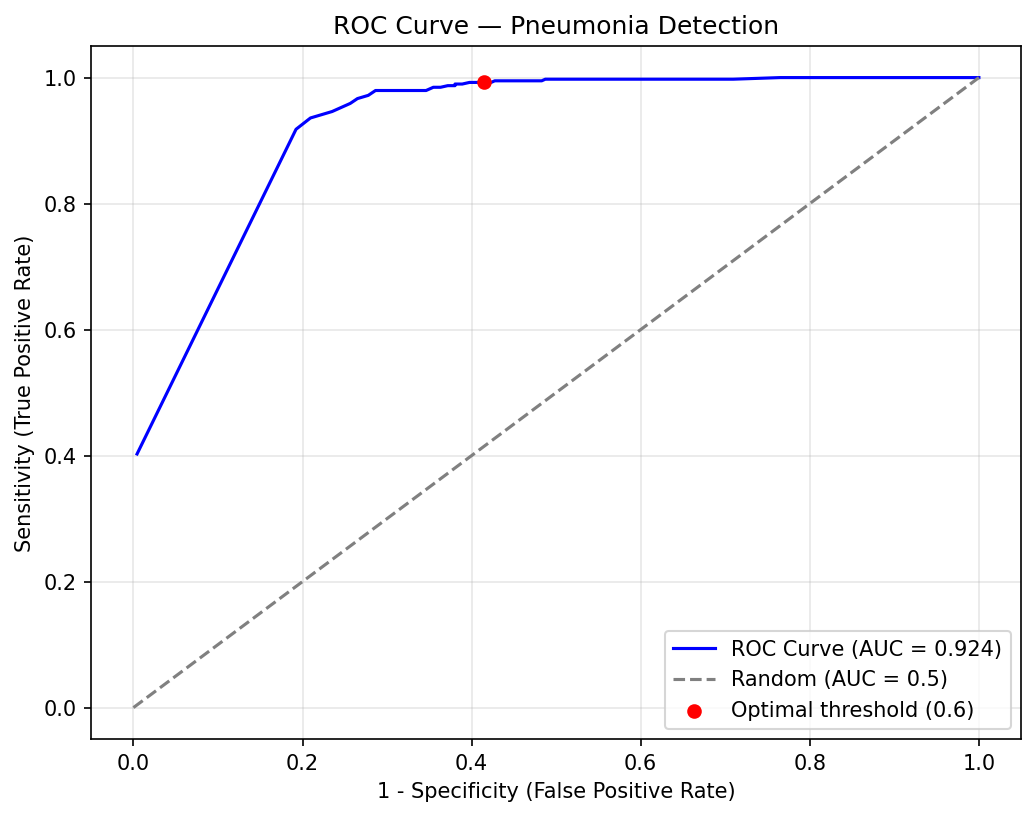
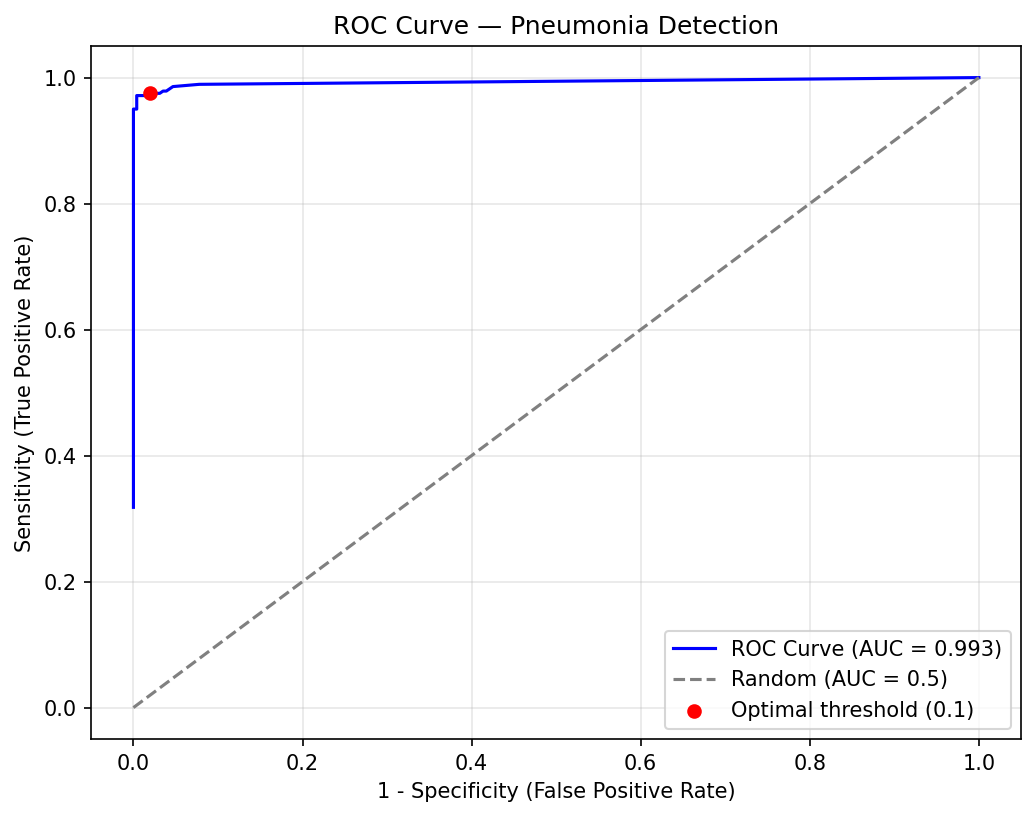
improve model with balanced data, proper train/val/test split, and threshold tuning

diff --git a/train.py b/train.py
@@ -2,7 +2,8 @@ import torch
 import torch.nn as nn
 import torch.optim as optim
 from torchvision import datasets, transforms, models
-from torch.utils.data import DataLoader, random_split
+from torch.utils.data import DataLoader, random_split, Subset
+import random
 
 transform = transforms.Compose([
   transforms.Resize((224, 224)),
@@ -20,30 +21,43 @@ val_transform = transforms.Compose([
                        [0.229, 0.224, 0.225]),
 ])
 
-# Load full training set to split
+# Load full training set
 full_dataset = datasets.ImageFolder("chest_xray/train", transform=transform)
 val_dataset = datasets.ImageFolder("chest_xray/train", transform=val_transform)
 
-# Split 80/20
-train_size = int(0.8 * len(full_dataset))
-val_size = len(full_dataset) - train_size
-train_indices, val_indices = random_split(range(len(full_dataset)), [train_size, val_size])
+# Separate indices by class
+normal_indices = []
+pneumonia_indices = []
+for i, (_, label) in enumerate(full_dataset):
+  if label == full_dataset.classes.index("NORMAL"):
+    normal_indices.append(i)
+  else:
+    pneumonia_indices.append(i)
 
-train_set = torch.utils.data.Subset(full_dataset, train_indices.indices)
-val_set = torch.utils.data.Subset(val_dataset, val_indices.indices)
+print(f"Original counts: NORMAL={len(normal_indices)}, PNEUMONIA={len(pneumonia_indices)}")
+
+# Undersample pneumonia to match normal count
+random.seed(42)
+pneumonia_indices = random.sample(pneumonia_indices, len(normal_indices))
+balanced_indices = normal_indices + pneumonia_indices
+random.shuffle(balanced_indices)
+
+print(f"After undersampling: {len(balanced_indices)} total ({len(normal_indices)} per class)")
+
+# Split 60/20/20
+train_end = int(0.6 * len(balanced_indices))
+val_end = int(0.8 * len(balanced_indices))
+train_indices = balanced_indices[:train_end]
+val_indices = balanced_indices[train_end:val_end]
+test_indices = balanced_indices[val_end:]
+
+print(f"Split: {len(train_indices)} train / {len(val_indices)} val / {len(test_indices)} test")
+
+train_set = Subset(full_dataset, train_indices)
+val_set = Subset(val_dataset, val_indices)
 
 train_loader = DataLoader(train_set, batch_size=16, shuffle=True)
 val_loader = DataLoader(val_set, batch_size=16)
-
-# Count class distribution for weighted loss
-class_counts = [0, 0]
-for _, label in train_set:
-  class_counts[label] += 1
-
-total = sum(class_counts)
-class_weights = torch.tensor([total / c for c in class_counts], dtype=torch.float32)
-print(f"Class counts: {dict(zip(full_dataset.classes, class_counts))}")
-print(f"Class weights: {class_weights.tolist()}")
 
 # Model setup — unfreeze layer4 + fc
 model = models.resnet50(weights="IMAGENET1K_V1")
@@ -58,9 +72,8 @@ model.fc = nn.Linear(model.fc.in_features, 2)
 
 device = torch.device("mps" if torch.backends.mps.is_available() else "cpu")
 model = model.to(device)
-class_weights = class_weights.to(device)
 
-criterion = nn.CrossEntropyLoss(weight=class_weights)
+criterion = nn.CrossEntropyLoss()
 optimizer = optim.Adam(
   list(model.layer4.parameters()) + list(model.fc.parameters()),
   lr=0.001,
@@ -102,10 +115,19 @@ for epoch in range(num_epochs):
   normal_idx = classes.index("NORMAL")
   pneumonia_idx = classes.index("PNEUMONIA")
 
-  tp = sum(1 for p, l in zip(all_preds, all_labels_list) if p == pneumonia_idx and l == pneumonia_idx)
-  tn = sum(1 for p, l in zip(all_preds, all_labels_list) if p == normal_idx and l == normal_idx)
-  fp = sum(1 for p, l in zip(all_preds, all_labels_list) if p == pneumonia_idx and l == normal_idx)
-  fn = sum(1 for p, l in zip(all_preds, all_labels_list) if p == normal_idx and l == pneumonia_idx)
+  tp = 0
+  tn = 0
+  fp = 0
+  fn = 0
+  for p, l in zip(all_preds, all_labels_list):
+    if p == pneumonia_idx and l == pneumonia_idx:
+      tp += 1
+    elif p == normal_idx and l == normal_idx:
+      tn += 1
+    elif p == pneumonia_idx and l == normal_idx:
+      fp += 1
+    elif p == normal_idx and l == pneumonia_idx:
+      fn += 1
 
   sensitivity = tp / (tp + fn) if (tp + fn) > 0 else 0
   specificity = tn / (tn + fp) if (tn + fp) > 0 else 0
@@ -126,30 +148,50 @@ with torch.no_grad():
     all_probs.extend(probs[:, pneumonia_idx].cpu().tolist())
     all_labels_list.extend(labels.tolist())
 
-best_threshold = 0.5
-best_j = 0
+MIN_SENSITIVITY = 0.99
+best_threshold = 0.01
+best_spec = 0
 
-for t in [i / 100 for i in range(101)]:
-  preds = [pneumonia_idx if p >= t else normal_idx for p in all_probs]
-  tp = sum(1 for p, l in zip(preds, all_labels_list) if p == pneumonia_idx and l == pneumonia_idx)
-  tn = sum(1 for p, l in zip(preds, all_labels_list) if p == normal_idx and l == normal_idx)
-  fp = sum(1 for p, l in zip(preds, all_labels_list) if p == pneumonia_idx and l == normal_idx)
-  fn = sum(1 for p, l in zip(preds, all_labels_list) if p == normal_idx and l == pneumonia_idx)
+thresholds = []
+for i in range(101):
+  thresholds.append(i / 100)
+
+for t in thresholds:
+  preds = []
+  for p in all_probs:
+    if p >= t:
+      preds.append(pneumonia_idx)
+    else:
+      preds.append(normal_idx)
+
+  tp = 0
+  tn = 0
+  fp = 0
+  fn = 0
+  for p, l in zip(preds, all_labels_list):
+    if p == pneumonia_idx and l == pneumonia_idx:
+      tp += 1
+    elif p == normal_idx and l == normal_idx:
+      tn += 1
+    elif p == pneumonia_idx and l == normal_idx:
+      fp += 1
+    elif p == normal_idx and l == pneumonia_idx:
+      fn += 1
 
   sens = tp / (tp + fn) if (tp + fn) > 0 else 0
   spec = tn / (tn + fp) if (tn + fp) > 0 else 0
-  j = sens + spec - 1
 
-  if j > best_j:
-    best_j = j
+  if sens >= MIN_SENSITIVITY and spec > best_spec:
+    best_spec = spec
     best_threshold = t
 
-print(f"Optimal threshold (Youden's J): {best_threshold}")
+print(f"Optimal threshold (sensitivity >= {MIN_SENSITIVITY}): {best_threshold}")
 
 torch.save({
   "model": model.state_dict(),
   "threshold": best_threshold,
   "classes": full_dataset.classes,
+  "test_indices": test_indices,
 }, "model.pth")
 
 print(f"Model and threshold saved. Classes: {full_dataset.classes}")

diff --git a/test.py b/test.py
@@ -1,7 +1,7 @@
 import torch
 import torch.nn as nn
 from torchvision import datasets, transforms, models
-from torch.utils.data import DataLoader
+from torch.utils.data import DataLoader, Subset
 import matplotlib.pyplot as plt
 
 transform = transforms.Compose([
@@ -11,13 +11,19 @@ transform = transforms.Compose([
                          [0.229, 0.224, 0.225]),
 ])
 
-test_set = datasets.ImageFolder("chest_xray/test", transform=transform)
-test_loader = DataLoader(test_set, batch_size=16)
-
-# Load model and threshold
+# Load checkpoint
 checkpoint = torch.load("model.pth", weights_only=False)
 THRESHOLD = checkpoint["threshold"]
+test_indices = checkpoint["test_indices"]
+classes = checkpoint["classes"]
 print(f"Using threshold from validation: {THRESHOLD}")
+
+# Load the same dataset and extract the held-out test split
+full_dataset = datasets.ImageFolder("chest_xray/train", transform=transform)
+test_set = Subset(full_dataset, test_indices)
+test_loader = DataLoader(test_set, batch_size=16)
+
+print(f"Test set size: {len(test_set)}")
 
 model = models.resnet50(weights=None)
 model.fc = nn.Linear(model.fc.in_features, 2)
@@ -27,7 +33,6 @@ device = torch.device("mps" if torch.backends.mps.is_available() else "cpu")
 model = model.to(device)
 model.eval()
 
-classes = test_set.classes
 normal_idx = classes.index("NORMAL")
 pneumonia_idx = classes.index("PNEUMONIA")
 
@@ -43,12 +48,26 @@ with torch.no_grad():
         all_labels.extend(labels.tolist())
 
 # Apply threshold
-all_predictions = [pneumonia_idx if p >= THRESHOLD else normal_idx for p in all_probs]
+all_predictions = []
+for p in all_probs:
+    if p >= THRESHOLD:
+        all_predictions.append(pneumonia_idx)
+    else:
+        all_predictions.append(normal_idx)
 
-tp = sum(1 for p, l in zip(all_predictions, all_labels) if p == pneumonia_idx and l == pneumonia_idx)
-tn = sum(1 for p, l in zip(all_predictions, all_labels) if p == normal_idx and l == normal_idx)
-fp = sum(1 for p, l in zip(all_predictions, all_labels) if p == pneumonia_idx and l == normal_idx)
-fn = sum(1 for p, l in zip(all_predictions, all_labels) if p == normal_idx and l == pneumonia_idx)
+tp = 0
+tn = 0
+fp = 0
+fn = 0
+for p, l in zip(all_predictions, all_labels):
+    if p == pneumonia_idx and l == pneumonia_idx:
+        tp += 1
+    elif p == normal_idx and l == normal_idx:
+        tn += 1
+    elif p == pneumonia_idx and l == normal_idx:
+        fp += 1
+    elif p == normal_idx and l == pneumonia_idx:
+        fn += 1
 
 sensitivity = tp / (tp + fn) if (tp + fn) > 0 else 0
 specificity = tn / (tn + fp) if (tn + fp) > 0 else 0
@@ -65,16 +84,34 @@ print(f"Precision:            {precision:.3f}  — of all pneumonia predictions,
 print(f"\nTotal test images: {len(all_labels)}")
 
 # ROC Curve
-thresholds = [i / 100 for i in range(101)]
+thresholds = []
+for i in range(101):
+    thresholds.append(i / 100)
+
 sensitivities = []
 one_minus_specificities = []
 
 for t in thresholds:
-    preds = [pneumonia_idx if p >= t else normal_idx for p in all_probs]
-    tp_t = sum(1 for p, l in zip(preds, all_labels) if p == pneumonia_idx and l == pneumonia_idx)
-    tn_t = sum(1 for p, l in zip(preds, all_labels) if p == normal_idx and l == normal_idx)
-    fp_t = sum(1 for p, l in zip(preds, all_labels) if p == pneumonia_idx and l == normal_idx)
-    fn_t = sum(1 for p, l in zip(preds, all_labels) if p == normal_idx and l == pneumonia_idx)
+    preds = []
+    for p in all_probs:
+        if p >= t:
+            preds.append(pneumonia_idx)
+        else:
+            preds.append(normal_idx)
+
+    tp_t = 0
+    tn_t = 0
+    fp_t = 0
+    fn_t = 0
+    for p, l in zip(preds, all_labels):
+        if p == pneumonia_idx and l == pneumonia_idx:
+            tp_t += 1
+        elif p == normal_idx and l == normal_idx:
+            tn_t += 1
+        elif p == pneumonia_idx and l == normal_idx:
+            fp_t += 1
+        elif p == normal_idx and l == pneumonia_idx:
+            fn_t += 1
 
     sens = tp_t / (tp_t + fn_t) if (tp_t + fn_t) > 0 else 0
     spec = tn_t / (tn_t + fp_t) if (tn_t + fp_t) > 0 else 0
